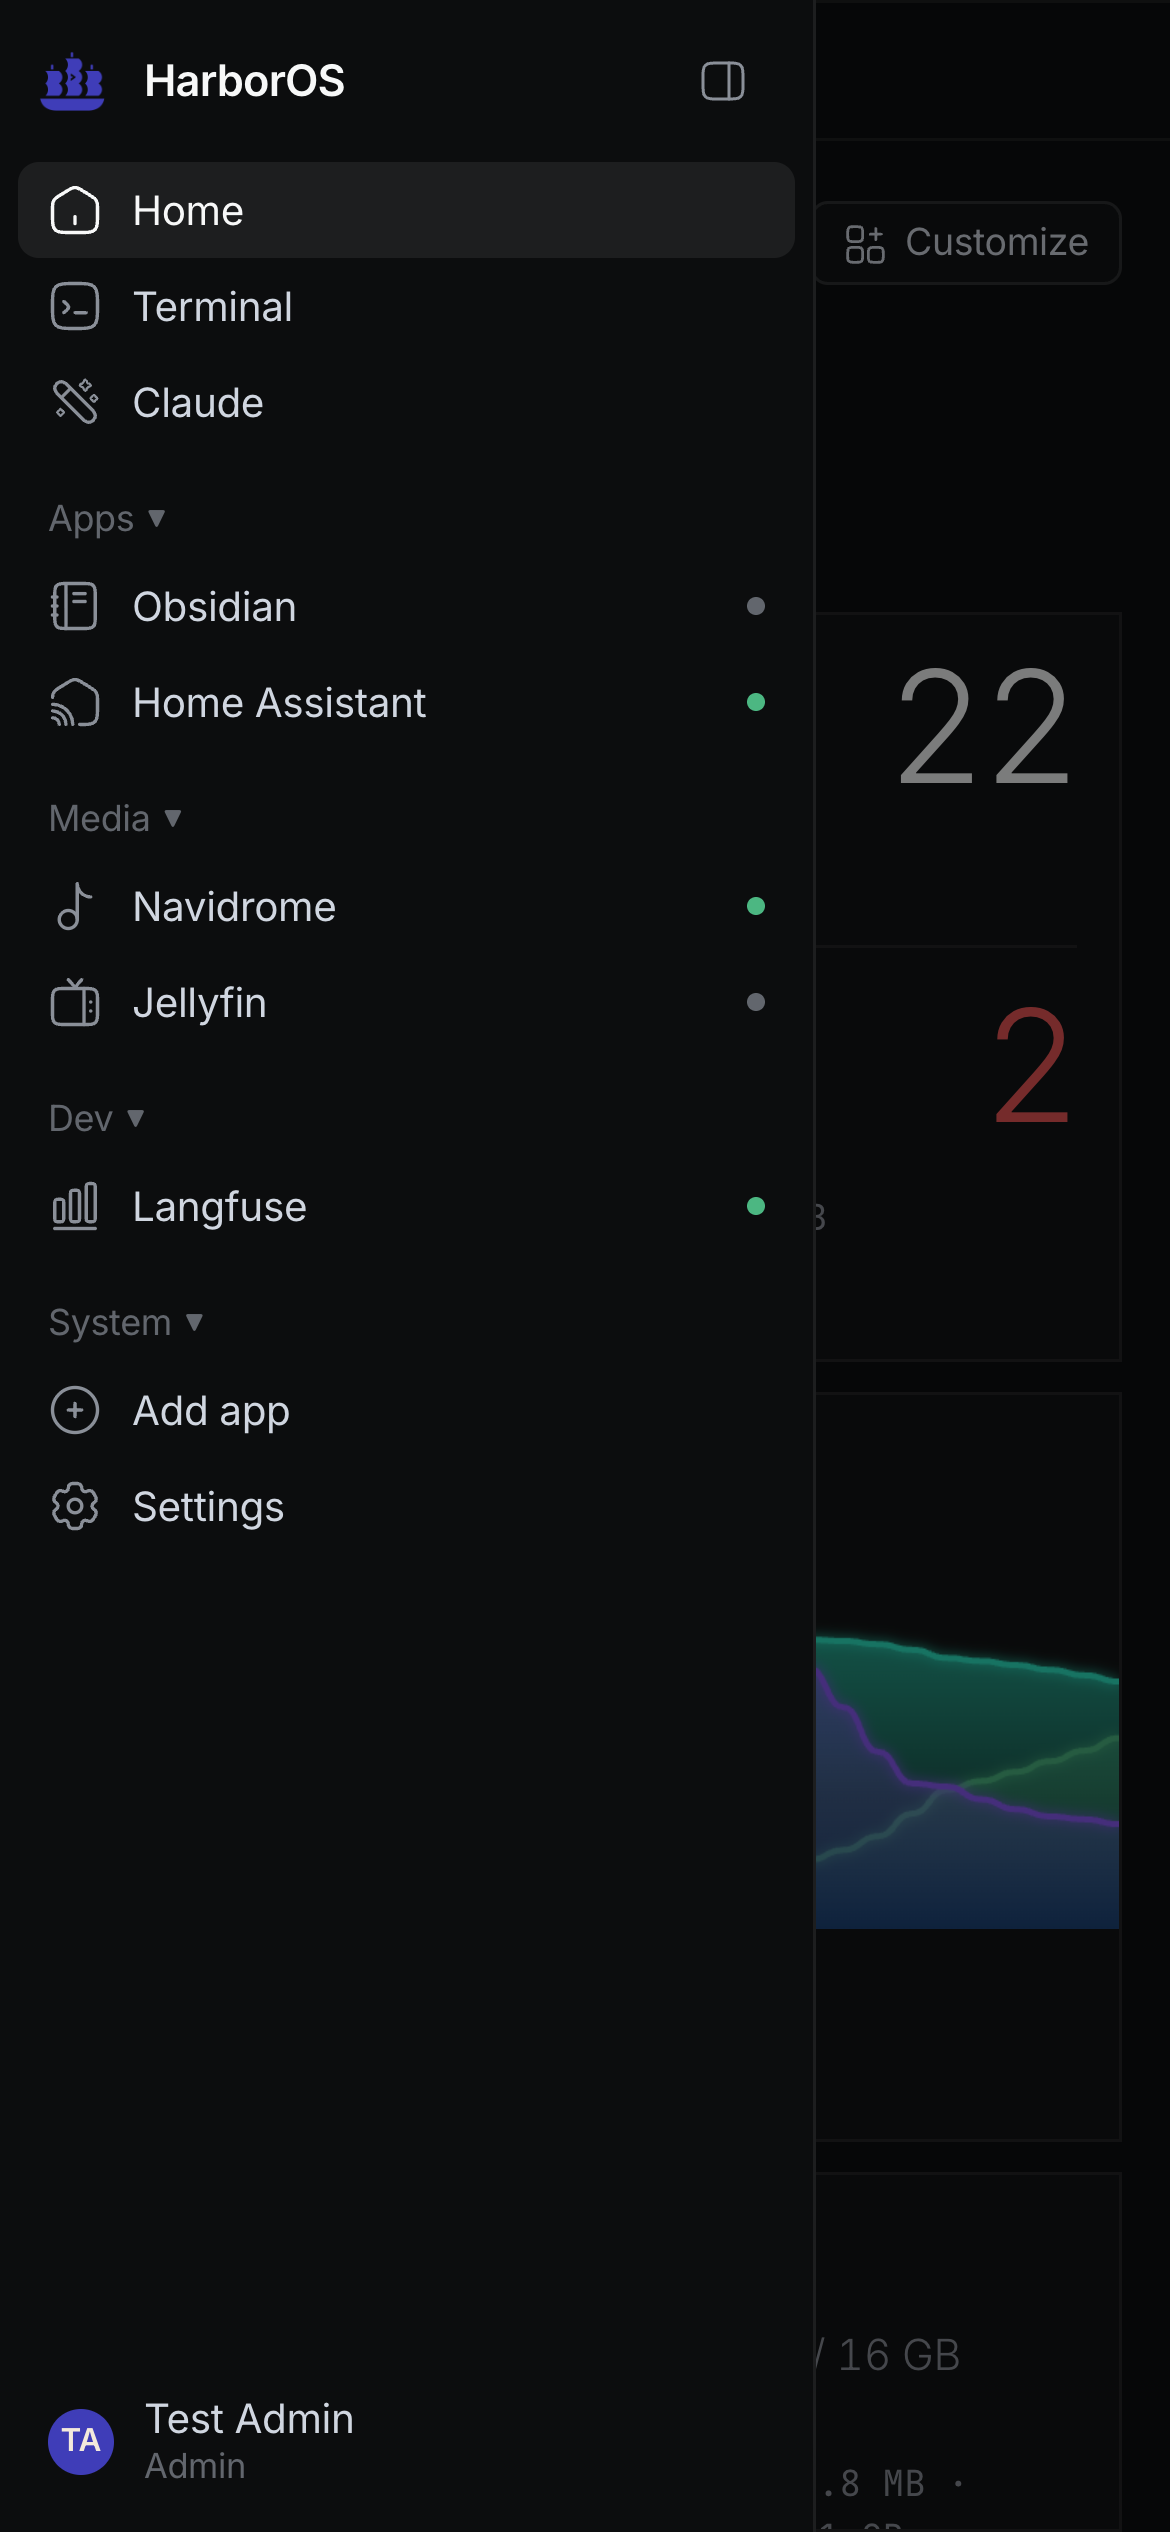
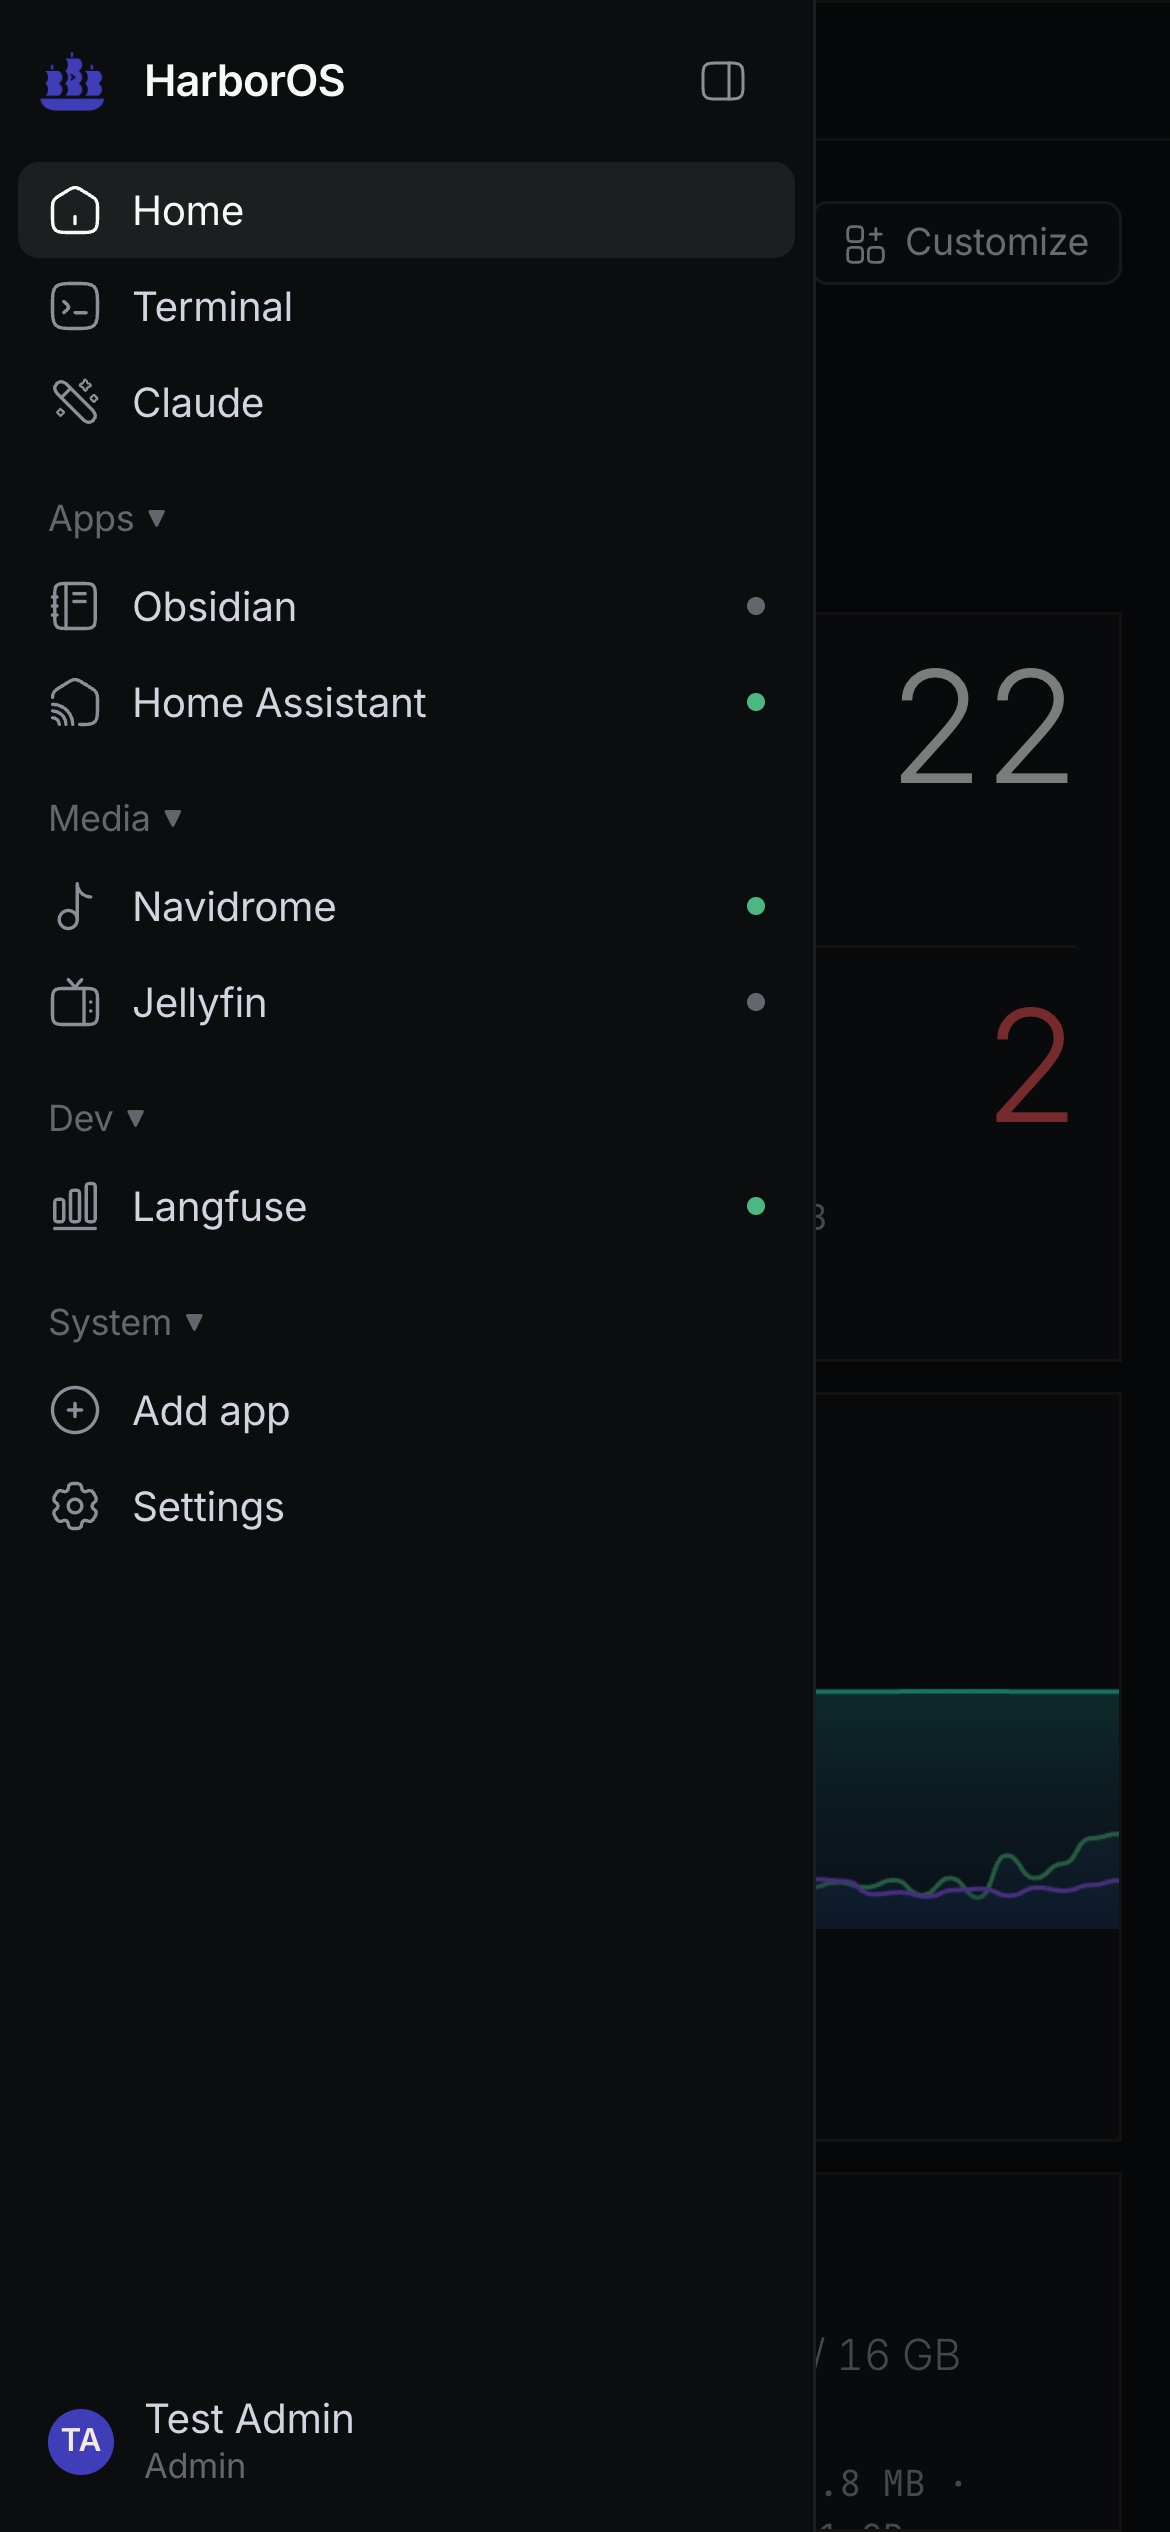
Revert chart restyle; add System load preview image to README

Changed region(s): [[0.6769, 0.624, 0.9538, 0.7488]]

diff --git a/web/src/widgets/ui.ts b/web/src/widgets/ui.ts
@@ -93,15 +93,6 @@ function downsample(a: number[], n: number) {
   return out;
 }
 
-// Centered moving average; keeps the length so the x axis is unchanged.
-function smooth(a: number[], r: number) {
-  return a.map((_, i) => {
-    let s = 0, c = 0;
-    for (let j = Math.max(0, i - r); j <= Math.min(a.length - 1, i + r); j++) { s += a[j]; c++; }
-    return s / c;
-  });
-}
-
 // ---------- sparkline (small tiles) ----------
 export function sparkline(parent: HTMLElement, o: { color?: string; height?: number; max?: number; points?: number } = {}) {
   const { ctx, size, c } = canvas(parent, o.height ?? 30);
@@ -137,31 +128,23 @@ export function area(parent: HTMLElement, o: { max?: number; points?: number; tr
     const { w, h: H } = size();
     ctx.clearRect(0, 0, w, H);
     if (!series.length) return;
-    const n = Math.min(o.points ?? 32, Math.max(...series.map((s) => s.data.length)));
+    const n = Math.min(o.points ?? 48, Math.max(...series.map((s) => s.data.length)));
     if (n < 2) return;
-    const ds = series.map((s) => smooth(downsample(s.data, n), Math.max(1, Math.round(n / 6))));
+    const ds = series.map((s) => downsample(s.data, n));
+    const max = o.max ?? Math.max(1, ...ds.flat()) * 1.25;
     const top = 50;
-    // Each series gets its own range so a steady 60% RAM doesn't flatten a
-    // 4% CPU line; exact values are in the trend card.
-    const ys = ds.map((d, k) => {
-      const lo = Math.min(...d), hi = Math.max(...d), span = Math.max(hi - lo, hi * 0.15, 1e-9);
-      return (v: number) => { const f = 0.32 - k * 0.09 + 0.62 * ((v - lo) / span); return H - f * (H - top); };
-    });
     // Draw the largest series first so smaller ones stay visible on top.
     const mean = (d: number[]) => d.reduce((a, b) => a + b, 0) / (d.length || 1);
     const order = ds.map((_, i) => i).sort((a, b) => mean(ds[b]) - mean(ds[a]));
     order.forEach((si) => {
       const d = ds[si];
       const col = series[si].color;
-      const pts = d.map((v, i) => [(i / (d.length - 1)) * w, ys[si](v)] as [number, number]);
-      const peak = Math.min(...pts.map((p) => p[1]));
-      const g = ctx.createLinearGradient(0, peak, 0, H);
-      g.addColorStop(0, col + "c8"); g.addColorStop(0.55, col + "66"); g.addColorStop(1, theme.blue + "88");
+      const pts = d.map((v, i) => [(i / (d.length - 1)) * w, H - (v / max) * (H - top)] as [number, number]);
+      const g = ctx.createLinearGradient(0, top, 0, H);
+      g.addColorStop(0, col + "b0"); g.addColorStop(1, theme.blue + "40");
       ctx.beginPath(); smoothPath(ctx, pts); ctx.lineTo(w, H); ctx.lineTo(0, H); ctx.closePath();
-      ctx.globalAlpha = 0.85; ctx.fillStyle = g; ctx.fill(); ctx.globalAlpha = 1;
-      ctx.save(); ctx.shadowColor = col; ctx.shadowBlur = 8;
-      ctx.beginPath(); smoothPath(ctx, pts); ctx.strokeStyle = col; ctx.lineWidth = 2; ctx.lineJoin = "round"; ctx.stroke();
-      ctx.restore();
+      ctx.globalAlpha = 0.8; ctx.fillStyle = g; ctx.fill(); ctx.globalAlpha = 1;
+      ctx.beginPath(); smoothPath(ctx, pts); ctx.strokeStyle = col; ctx.lineWidth = 1.5; ctx.stroke();
     });
     if (hover != null) {
       const x = hover * w;
@@ -169,7 +152,7 @@ export function area(parent: HTMLElement, o: { max?: number; points?: number; tr
       ctx.beginPath(); ctx.moveTo(x, 18); ctx.lineTo(x, H - 6); ctx.stroke(); ctx.setLineDash([]);
       const i = Math.round(hover * (n - 1));
       ds.forEach((d, si) => {
-        const y = ys[si](d[i]);
+        const y = H - (d[i] / max) * (H - top);
         ctx.beginPath(); ctx.arc(x, y, 3.5, 0, Math.PI * 2); ctx.fillStyle = "#fff"; ctx.fill();
         ctx.lineWidth = 2; ctx.strokeStyle = series[si].color; ctx.stroke();
       });

diff --git a/server/src/demo.ts b/server/src/demo.ts
@@ -13,15 +13,15 @@ let kwh = 1.84, rxToday = 4.1 * GB, txToday = 0.62 * GB;
 
 export function demoStats(): Stats {
   t++;
-  const cpu = Math.max(2, 9 + 5 * wave(28) + 9 * Math.max(0, wave(17, 1)) ** 2 + noise(3));
+  const cpu = Math.max(2, 9 + 6 * wave(90) + 10 * Math.max(0, wave(37, 1)) ** 4 + noise(3));
   const watts = 24 + cpu * 0.42 + noise(1.5);
-  const rx = Math.max(0, 900e3 + 650e3 * wave(36, 3.6) + noise(300e3));
+  const rx = Math.max(0, 900e3 + 700e3 * wave(60, 2) + noise(300e3));
   const tx = Math.max(0, 120e3 + 80e3 * wave(45) + noise(40e3));
   kwh += (watts * 2) / 3600 / 1000; rxToday += rx * 2; txToday += tx * 2;
   return {
     t: Date.now(),
     cpu: { total: cpu, cores: [0, 1, 2, 3].map((i) => Math.max(0, cpu + noise(8) + i)), temp: 44 + cpu * 0.35 + noise(1), load: [0.38 + cpu / 40, 0.41, 0.36] },
-    mem: { total: 16 * GB, used: (9.6 + 0.6 * wave(44, 1.8)) * GB, cached: 3.1 * GB, swapTotal: 4 * GB, swapUsed: 0.2 * GB },
+    mem: { total: 16 * GB, used: (9.6 + 0.3 * wave(120)) * GB, cached: 3.1 * GB, swapTotal: 4 * GB, swapUsed: 0.2 * GB },
     uptime: 23 * 86400 + 4 * 3600 + t * 2,
     net: { rx, tx, rxToday, txToday },
     disks: [{ mount: "/", total: 476 * GB, used: 371 * GB }, { mount: "/mnt/data", total: 3.6 * 1024 * GB, used: 1.9 * 1024 * GB }],

diff --git a/README.md b/README.md
@@ -23,6 +23,10 @@
   <img src="docs/screenshots/home.png" alt="HarborOS home dashboard: sidebar with apps and status dots, system load chart, CPU, memory, power, network, disk and savings tiles" width="100%">
 </p>
 
+<p align="center">
+  <img src="docs/screenshots/system-load.png" alt="System load chart with layered RAM, CPU and network areas and the trend analyzer card" width="100%">
+</p>
+
 <p align="center"><sub>Screenshots use the built-in demo mode (<code>HARBOR_DEMO=1</code>), so the numbers are simulated.</sub></p>
 
 ---
